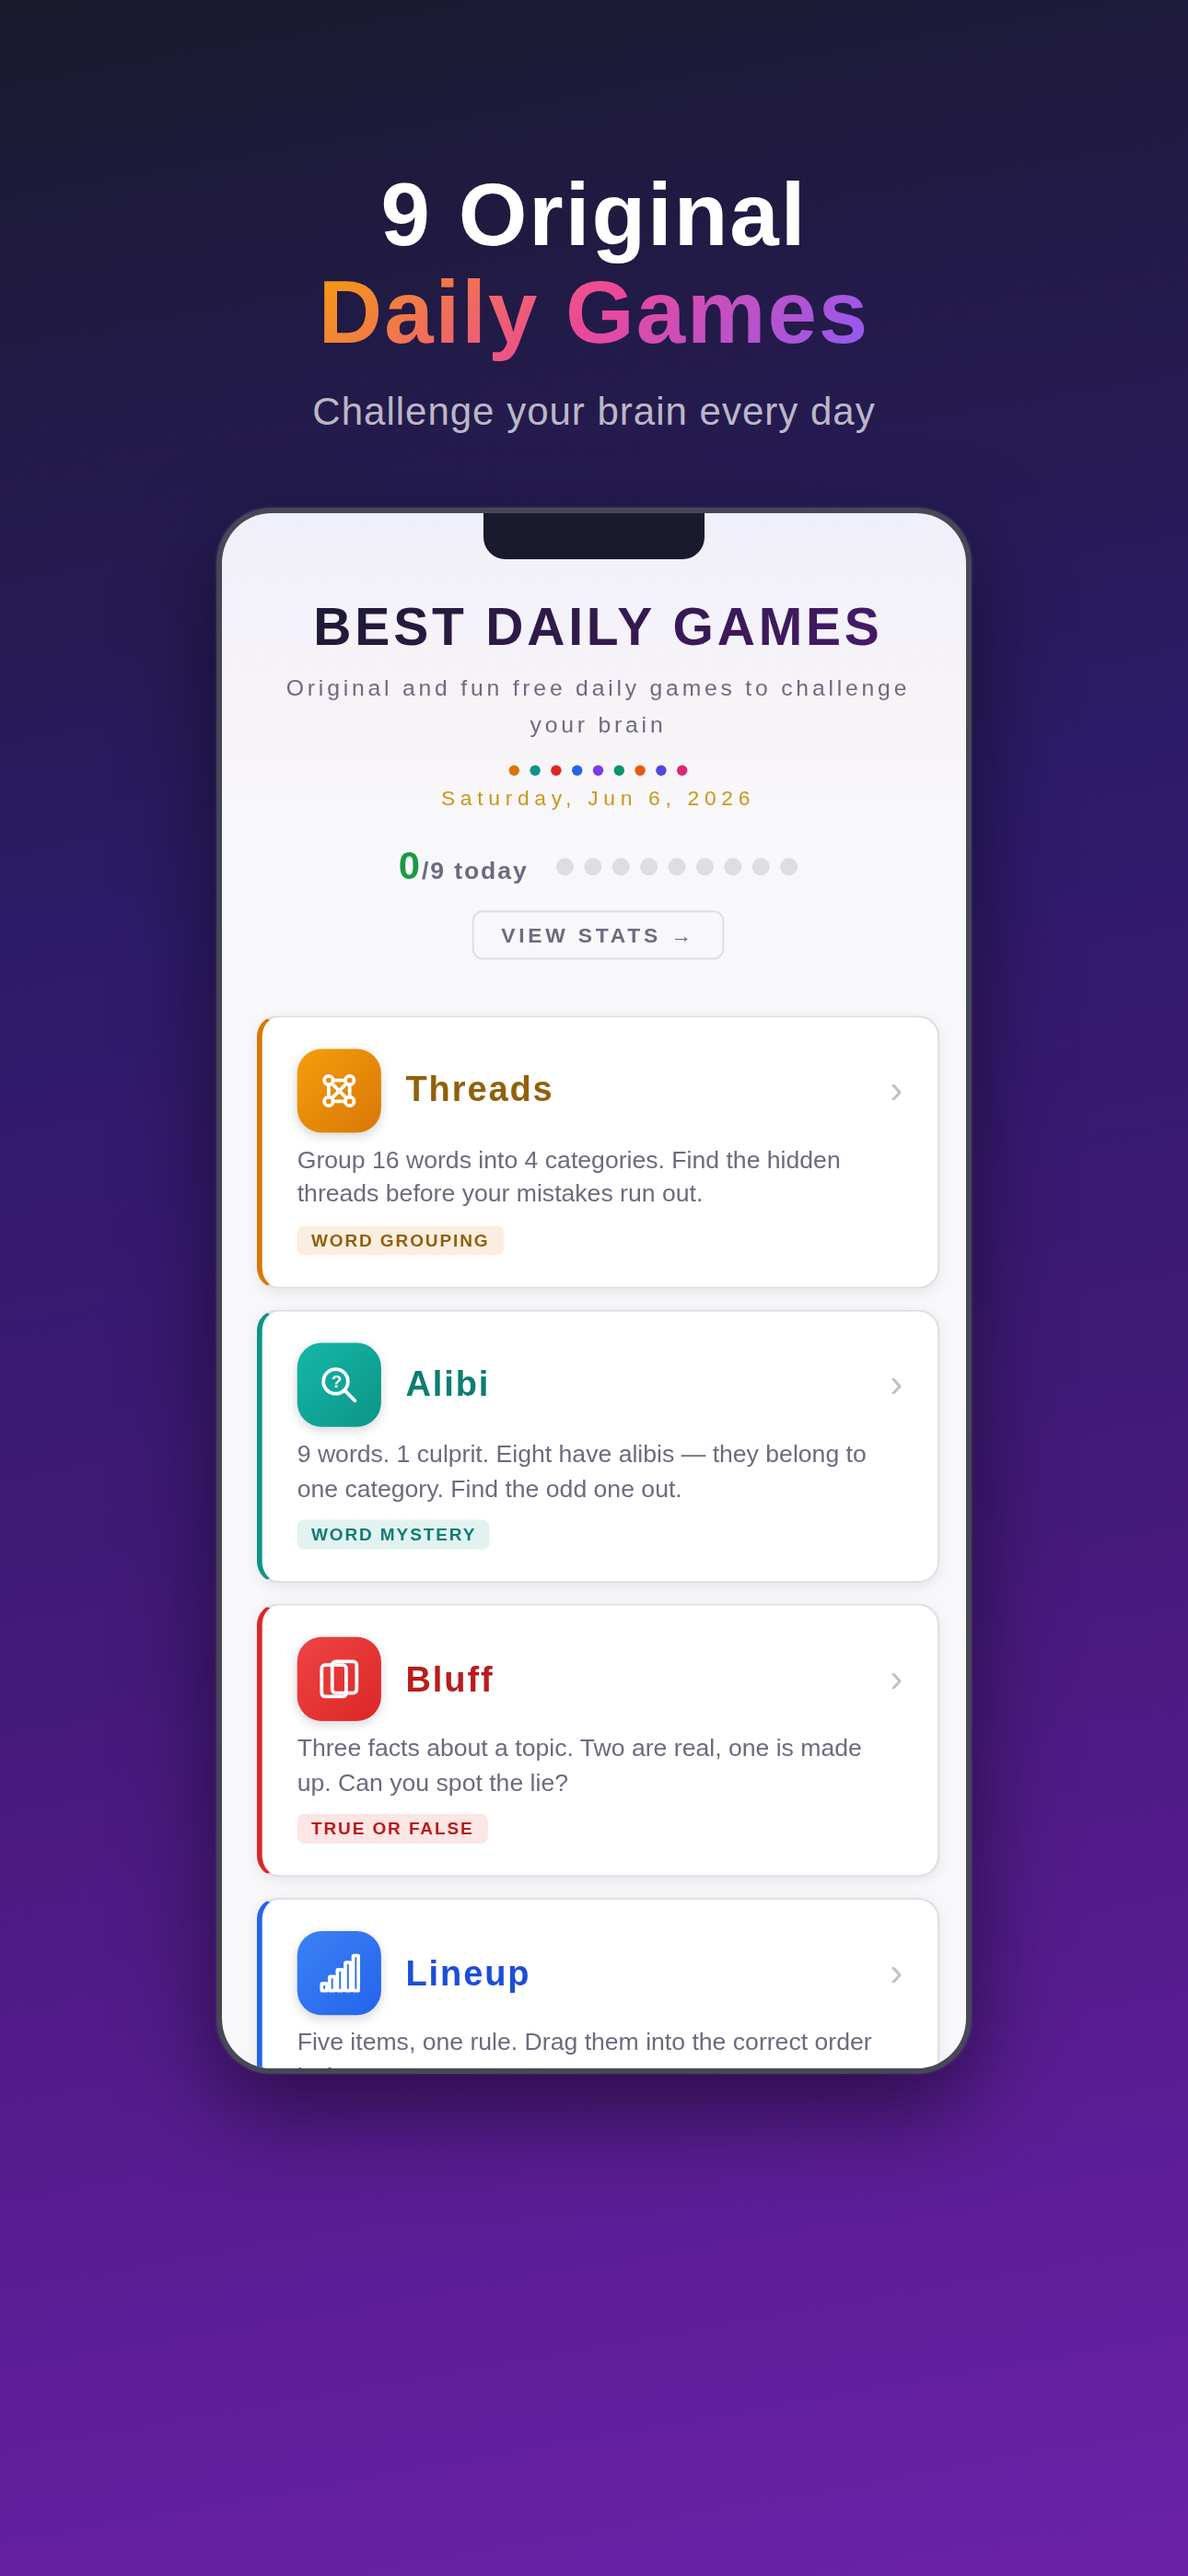
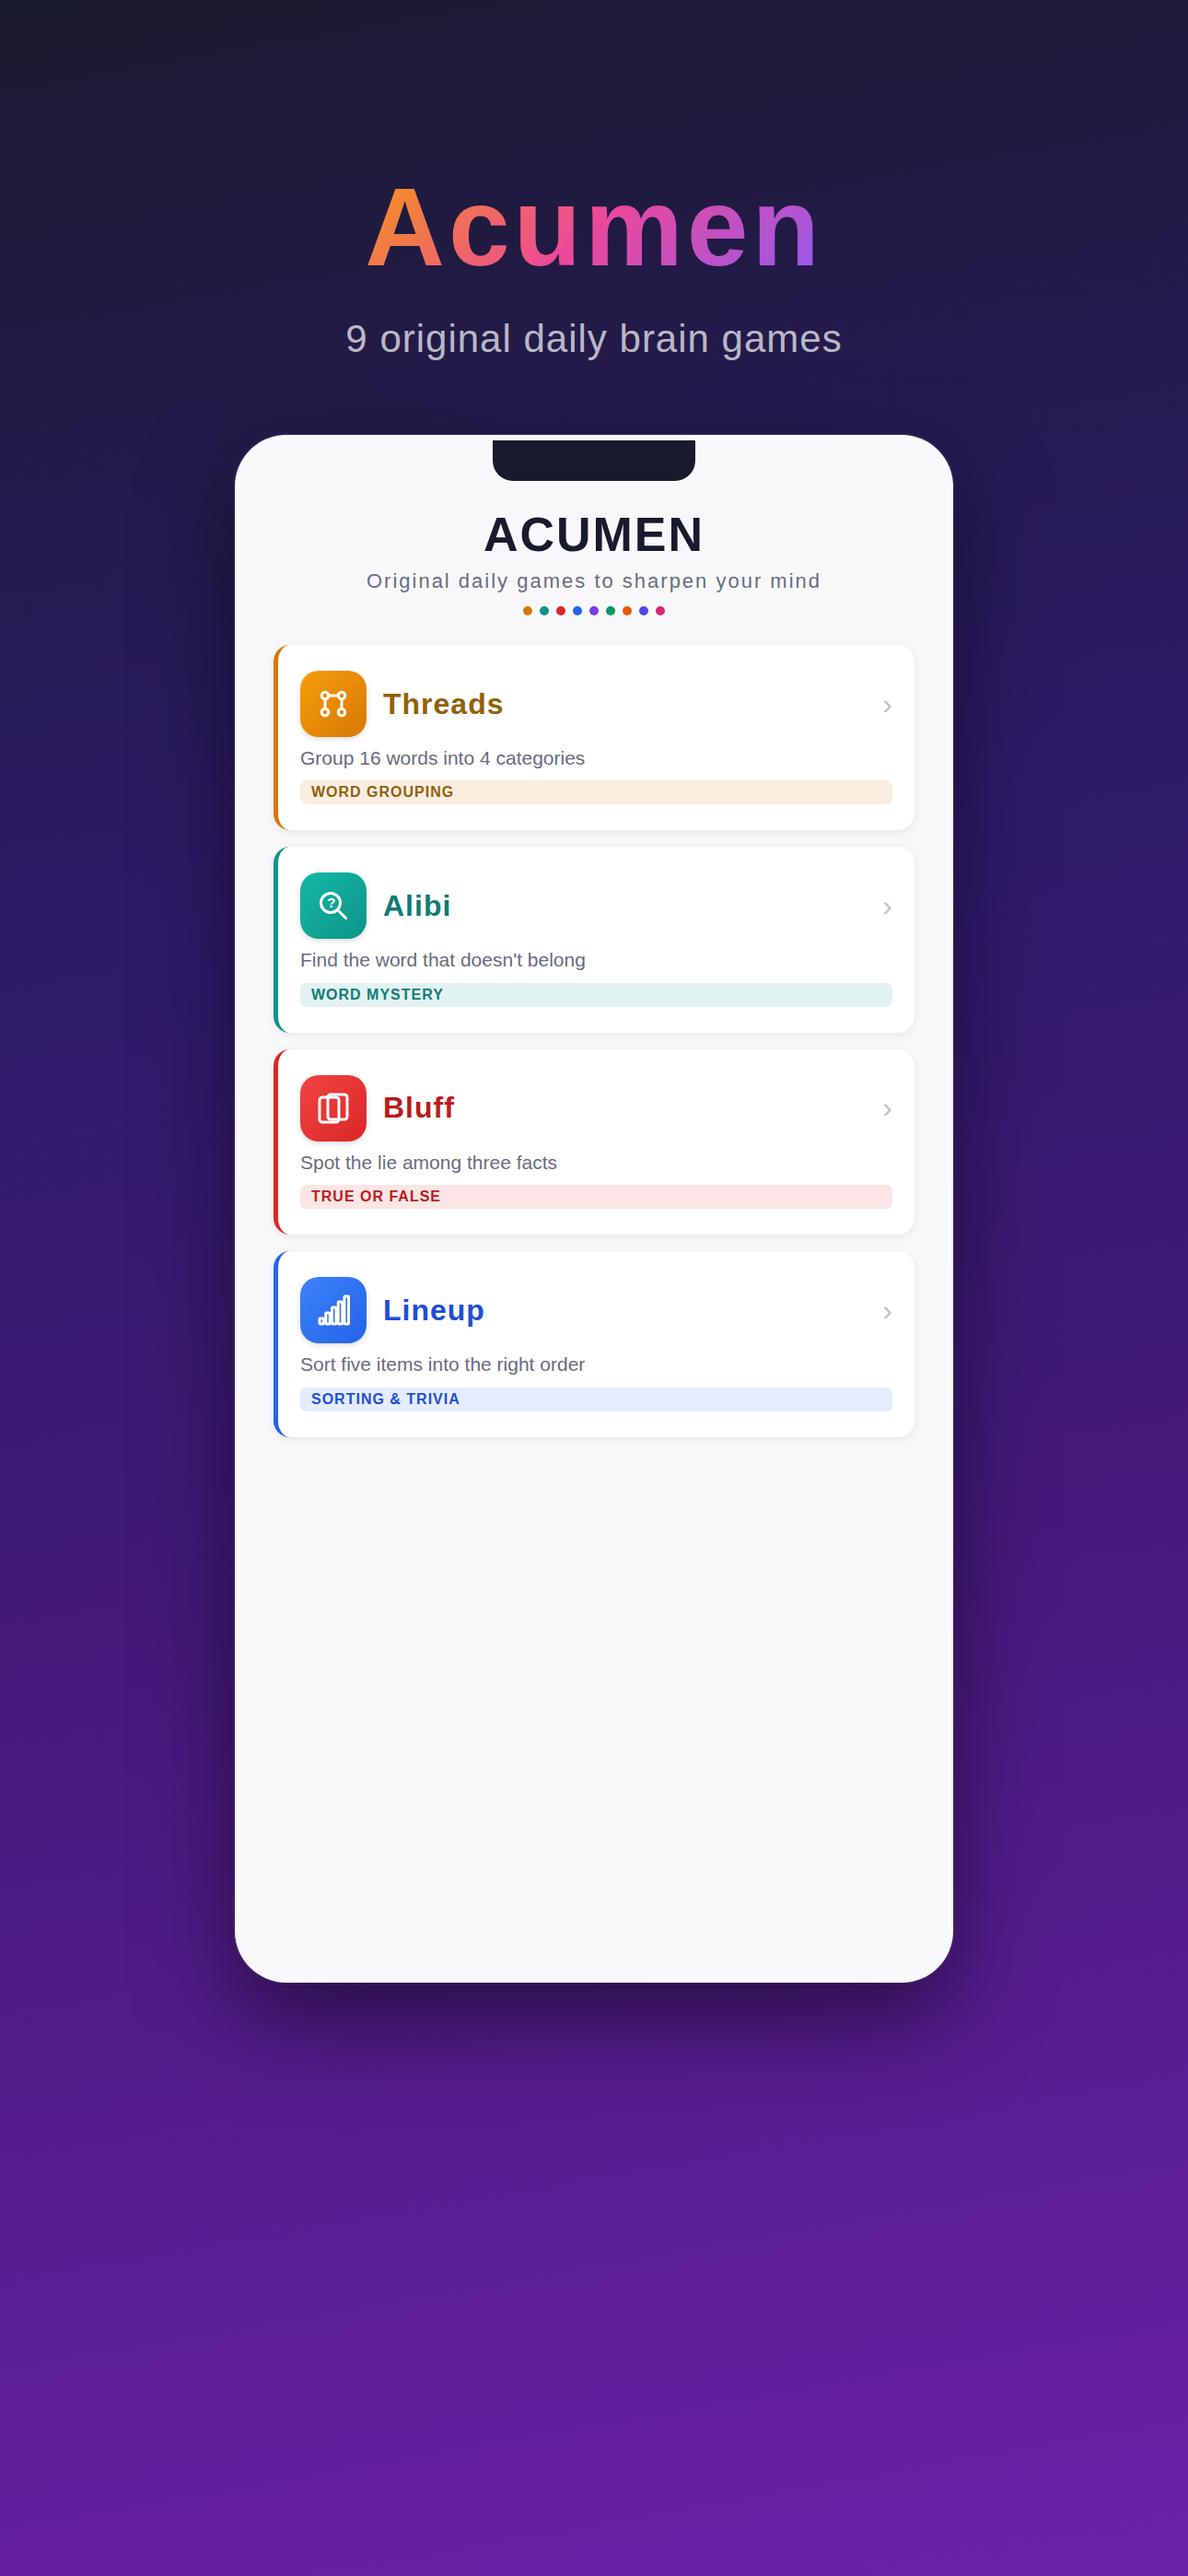
Rebrand app to Acumen
Updated app.html, capacitor.config, manifest, service worker,
and all App Store screenshots to use the Acumen name.

https://claude.ai/code/session_01WxULHAK3zMpbgJZ5sJwkgA

Changed region(s): [[0.155, 0.0622, 0.8372, 0.8401]]

diff --git a/app.html b/app.html
@@ -9,7 +9,7 @@
   <link rel="preconnect" href="https://fonts.googleapis.com">
   <link rel="preconnect" href="https://fonts.gstatic.com" crossorigin>
   <link href="https://fonts.googleapis.com/css2?family=Inter:wght@400;600;700;900&display=swap" rel="stylesheet">
-  <title>Best Daily Games</title>
+  <title>Acumen</title>
   <style>
     * { margin: 0; padding: 0; box-sizing: border-box; -webkit-tap-highlight-color: transparent; }
 
@@ -350,8 +350,8 @@
 <body>
   <div id="app">
     <header>
-      <h1>BEST DAILY GAMES</h1>
-      <p class="subtitle">Original and fun free daily games to challenge your brain</p>
+      <h1>ACUMEN</h1>
+      <p class="subtitle">Original daily games to sharpen your mind</p>
       <div class="color-dots">
         <div class="cdot" style="background:#D97706"></div>
         <div class="cdot" style="background:#0D9488"></div>
@@ -517,7 +517,7 @@
       </a>
     </div>
 
-    <footer>Best Daily Games</footer>
+    <footer>Acumen</footer>
     <script src="daily.js"></script>
     <script>
       document.getElementById('hub-date').textContent = Daily.getDateString();

diff --git a/sw.js b/sw.js
@@ -1,4 +1,4 @@
-var CACHE_NAME = 'bestdailygames-v1';
+var CACHE_NAME = 'acumen-v1';
 
 var ASSETS = [
   '/',
